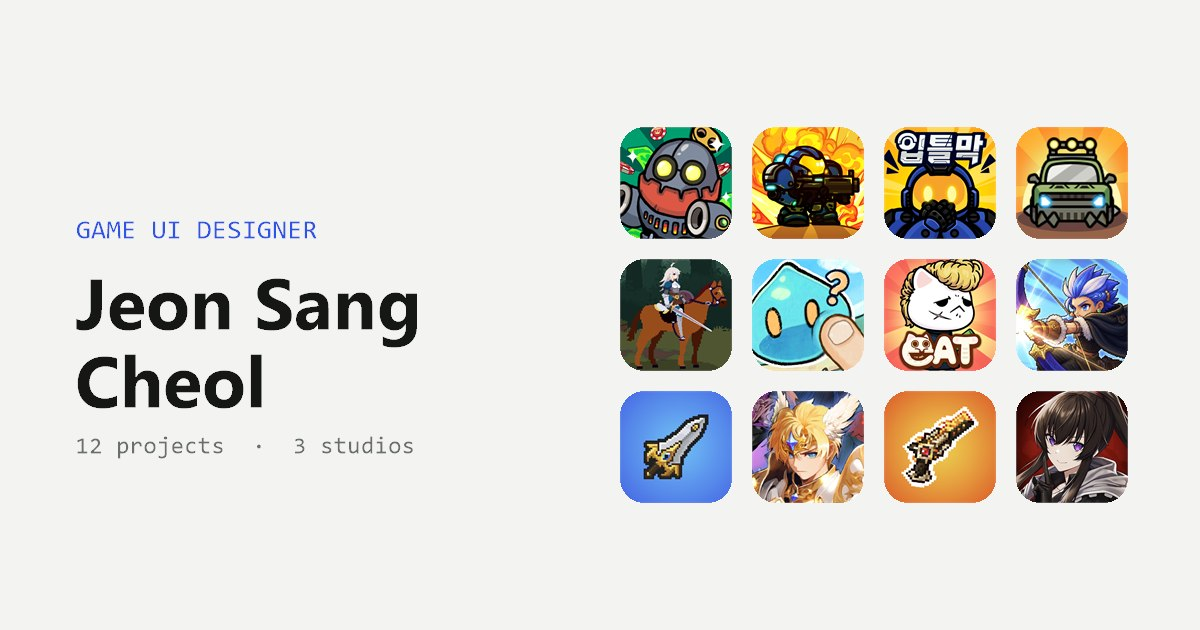
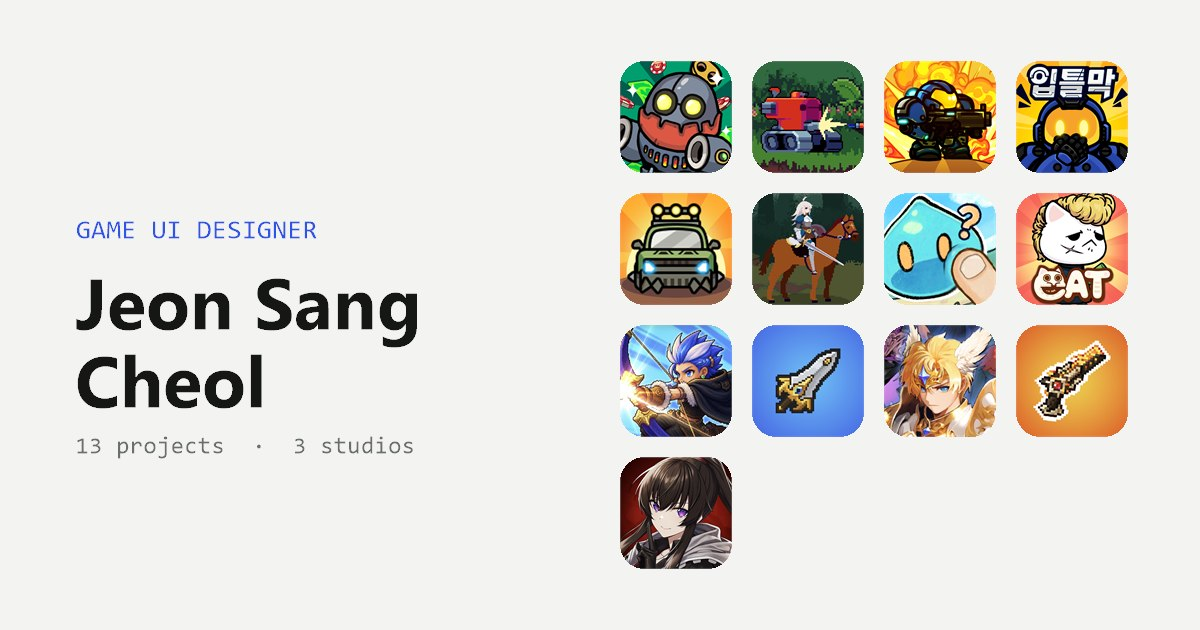
2026.11.18

Changed region(s): [[0.4933, 0.0905, 0.9558, 0.9048]]

diff --git a/index.html b/index.html
@@ -3,10 +3,10 @@
 <head>
 <meta charset="utf-8">
 <meta name="viewport" content="width=device-width, initial-scale=1, viewport-fit=cover">
-<meta name="description" content="Game UI Designer Jeon Sang Cheol · GAKE, Act Seven, Studio B Side 실무와 개인작업물을 담은 모바일 게임 12개의 UI 포트폴리오">
+<meta name="description" content="Game UI Designer Jeon Sang Cheol · GAKE, Act Seven, Studio B Side 실무와 개인작업물을 담은 모바일 게임 13개의 UI 포트폴리오">
 <meta property="og:type" content="website">
 <meta property="og:title" content="Game UI Portfolio (Jeon Sang Cheol)">
-<meta property="og:description" content="Game UI Designer Jeon Sang Cheol · GAKE, Act Seven, Studio B Side 실무와 개인작업물을 담은 모바일 게임 12개의 UI 포트폴리오">
+<meta property="og:description" content="Game UI Designer Jeon Sang Cheol · GAKE, Act Seven, Studio B Side 실무와 개인작업물을 담은 모바일 게임 13개의 UI 포트폴리오">
 <meta property="og:image" content="https://melldongame.github.io/og-image.jpg">
 <meta property="og:image:width" content="1200">
 <meta property="og:image:height" content="630">
@@ -121,7 +121,7 @@ a { color: inherit; }
 .pv-meta { display: grid; gap: 2px; padding: 4px 2px 2px; }
 .pv-meta b { font-family: var(--font-display); font-size: 15px; }
 .pv-meta span { font-size: 12px; color: var(--muted); }
-.pv-strip { display: grid; grid-template-columns: repeat(5, minmax(0, 1fr)); gap: 6px; padding: 10px; border-radius: 6px; }
+.pv-strip { display: grid; grid-template-columns: repeat(var(--n, 5), minmax(0, 56px)); justify-content: center; gap: 6px; padding: 10px; border-radius: 6px; }
 .pv-strip img { aspect-ratio: 1080 / 2400; border-radius: 4px; }
 .pv-empty { display: grid; place-items: center; aspect-ratio: 16 / 9; border-radius: 6px; background: var(--bg); color: var(--muted); font-size: 13px; }
 .pv-empty .icon { width: 72px; box-shadow: none; }
@@ -246,7 +246,7 @@ button.spine-stage:focus-visible { outline: 2px solid var(--accent); outline-off
 @media (max-width: 720px) { .spines { grid-template-columns: repeat(2, minmax(0, 1fr)); gap: 16px 12px; } }
 
 /* Hero strip of phone screens for portrait games */
-.strip { display: grid; grid-template-columns: repeat(5, minmax(0, 1fr)); gap: clamp(8px, 1.6vw, 20px); padding: clamp(16px, 3.2vw, 44px); border-radius: 6px; }
+.strip { display: grid; grid-template-columns: repeat(var(--n, 5), minmax(0, 200px)); justify-content: center; gap: clamp(8px, 1.6vw, 20px); padding: clamp(16px, 3.2vw, 44px); border-radius: 6px; }
 .strip img { display: block; width: 100%; aspect-ratio: 1080 / 2400; object-fit: cover; border-radius: clamp(6px, 1vw, 12px); box-shadow: 0 16px 32px -14px rgba(0,0,0,.6); }
 @media (max-width: 640px) { .strip { grid-template-columns: repeat(3, minmax(0, 1fr)); } .strip img:nth-child(n+4) { display: none; } }
 @media (prefers-reduced-motion: reduce) { .tile img { transition: none; } }
@@ -681,6 +681,14 @@ const projects = [
     dir: "images/mad-truck/",
     strip: ["a1", "a3", "a4", "b1", "b3"],
     sections: [
+      { title: "UI 연출", groups: [
+        { title: "카드 연출", kind: "spine", fx: true, cols: 5, stageRatio: "9 / 16", items: [
+          { name: "카드 오픈", anims: [["GIF", "fx/fx-card-open.gif"]] }
+        ] },
+        { title: "인게임 연출", cols: 5, ratio: "1080 / 2400", items: [
+          { f: "b1", name: "보스 등장" }, { f: "b2", name: "부스터" }, { f: "b3", name: "승리" }
+        ] }
+      ] },
       { title: "UI / UX", groups: [
         { title: "로비", cols: 5, ratio: "1080 / 2400", items: [
           { f: "a1", name: "스테이지 로비" }, { f: "a2", name: "튜토리얼" }, { f: "b4", name: "강화 카드" },
@@ -689,11 +697,6 @@ const projects = [
         { title: "인게임", cols: 5, ratio: "1080 / 2400", items: [
           { f: "a3", name: "전투" }, { f: "a4", name: "카드 선택" }, { f: "a5", name: "일시 정지" },
           { f: "a6", name: "VIP 제안 · 2배속" }, { f: "a7", name: "광고 보상" }, { f: "a8", name: "유닛 배치" }, { f: "a9", name: "유닛 합성" }
-        ] }
-      ] },
-      { title: "UI 연출", groups: [
-        { title: "인게임 연출", cols: 5, ratio: "1080 / 2400", items: [
-          { f: "b1", name: "보스 등장" }, { f: "b2", name: "부스터" }, { f: "b3", name: "승리" }
         ] }
       ] }
     ]
@@ -705,10 +708,14 @@ const projects = [
     summary: "UI / UX / UI 연출 / 광고 , 스토어배너",
     screens: [],
     dir: "images/block-the-gate/",
-    strip: ["a1", "a2", "b2", "c6", "d2"],
+    strip: ["a1", "fx/fx-summon.gif", "fx/fx-card-idle.gif", "fx/fx-card-open.gif", "fx/fx-produce.gif"],
     sections: [
       { title: "UI 연출", groups: [
         { title: "화면 연출", kind: "spine", fx: true, cols: 5, stageRatio: "9 / 16", items: [
+          { name: "소환", anims: [["GIF", "fx/fx-summon.gif"]] },
+          { name: "카드 대기", anims: [["GIF", "fx/fx-card-idle.gif"]] },
+          { name: "카드 오픈", anims: [["GIF", "fx/fx-card-open.gif"]] },
+          { name: "생산", anims: [["GIF", "fx/fx-produce.gif"]] },
           { name: "뽑기", anims: [["GIF", "fx/fx-gacha.gif"]] },
           { name: "카드 선택", anims: [["GIF", "fx/fx-card.gif"]] },
           { name: "미네랄 채굴", anims: [["GIF", "fx/fx-mineral.gif"]] },
@@ -809,6 +816,22 @@ const projects = [
     ]
   },
   {
+    id: "pixel-tank", title: "Pixel Tank", ko: "",
+    genre: "방치형 RPG", year: "", role: "UI 컨셉", tools: "",
+    orient: "portrait", hue: [96, 150], cover: "", icon: "images/pixel-tank/icon.jpg",
+    summary: "UI 컨셉 제작",
+    screens: [],
+    dir: "images/pixel-tank/",
+    strip: ["a1", "a2"],
+    sections: [
+      { title: "UI 컨셉", groups: [
+        { title: "화면", cols: 5, ratio: "1080 / 1920", items: [
+          { f: "a1", name: "인게임" }, { f: "a2", name: "팝업 프레임" }
+        ] }
+      ] }
+    ]
+  },
+  {
     id: "pixel-knight", title: "Pixel Knight", ko: "",
     genre: "방치형 RPG", year: "", role: "UI/UX · UI 연출", tools: "", status: "개발 중단 · 미출시",
     orient: "portrait", hue: [140, 200], cover: "", icon: "images/pixel-knight/icon.jpg",
@@ -817,6 +840,13 @@ const projects = [
     dir: "images/pixel-knight/",
     strip: ["a1", "b7", "c3", "d4", "d8"],
     sections: [
+      { title: "UI 연출", groups: [
+        { title: "상점 연출", kind: "spine", fx: true, cols: 5, stageRatio: "9 / 16", items: [
+          { name: "상점 1", anims: [["GIF", "fx/fx-shop-1.gif"]] },
+          { name: "상점 2", anims: [["GIF", "fx/fx-shop-2.gif"]] },
+          { name: "상점 3", anims: [["GIF", "fx/fx-shop-3.gif"]] }
+        ] }
+      ] },
       { title: "UI / UX", groups: [
         { title: "메인 · 성장", cols: 5, ratio: "1080 / 1920", items: [
           { f: "a1", name: "메인" }, { f: "a2", name: "레벨업" }, { f: "a7", name: "메뉴" },
@@ -849,7 +879,7 @@ const projects = [
 
 // Companies, newest first. Projects show in the order listed in ids.
 const companies = [
-  { name: "개인작업물", period: "", ids: ["poker-random-arena"] },
+  { name: "개인작업물", period: "", ids: ["poker-random-arena", "pixel-tank"] },
   { name: "GAKE", period: "2024 – 2026", ids: ["marine-too-strong", "block-the-gate", "mad-truck", "pixel-knight", "surprise-defense", "cat-fortress"] },
   { name: "Act Seven", period: "2023 – 2024", ids: ["gotcha", "dragon-slayer", "eternal-heroes", "sonyeo-chongsa"] },
   { name: "Studio B Side", period: "2020 – 2022", ids: ["counter-side"] }
@@ -882,7 +912,9 @@ function shot(p, s, { orient = s.orient || p.orient, src, crop } = {}) {
     <span class="label">${esc(s.name)}</span></div></div>`;
 }
 
-const stripBg = p => `background: linear-gradient(140deg, hsl(${p.hue[0]} 40% 16%), hsl(${p.hue[1]} 45% 32%));`;
+// Strip entries are screenshot ids ("a1") or animation paths ("fx/clip.gif")
+const stripSrc = (p, f) => p.dir + (f.includes(".") ? f : f + "-t.jpg");
+const stripBg = p =>`background: linear-gradient(140deg, hsl(${p.hue[0]} 40% 16%), hsl(${p.hue[1]} 45% 32%)); --n: ${p.strip.length};`;
 
 function icon(p) {
   if (p.icon) return `<div class="icon"><img src="${esc(p.icon)}" alt="${esc(p.title)} 앱 아이콘"></div>`;
@@ -934,7 +966,7 @@ function showPreview(p, anchor) {
     const co = companyOf(p);
     const picks = p.strip ? [] : (p.sections || []).map(s => s.groups[0].items[0]).slice(0, 3);
     pv.innerHTML = (p.strip
-      ? `<div class="pv-strip" style="${stripBg(p)}">${p.strip.map(f => `<img src="${esc(p.dir + f + "-t.jpg")}" alt="">`).join("")}</div>`
+      ? `<div class="pv-strip" style="${stripBg(p)}">${p.strip.map(f => `<img src="${esc(stripSrc(p, f))}" alt="">`).join("")}</div>`
       : p.cover
       ? `<div class="pv-cover"><img src="${esc(p.cover)}" alt=""></div>`
       : `<div class="pv-empty">${icon(p)}<span>상세 화면 준비 중</span></div>`) +
@@ -974,7 +1006,7 @@ function renderDetail(p) {
       </div>
     </section>
     ${p.strip
-      ? `<div class="strip" style="${stripBg(p)}">${p.strip.map(f => `<img src="${esc(p.dir + f + "-t.jpg")}" alt="${esc(p.title)} 화면">`).join("")}</div>`
+      ? `<div class="strip" style="${stripBg(p)}">${p.strip.map(f => `<img src="${esc(stripSrc(p, f))}" alt="${esc(p.title)} 화면">`).join("")}</div>`
       : shot(p, { kind: "title", name: "타이틀" }, { orient: "landscape", src: p.cover, crop: true })}
     <dl class="meta">
       ${[["Genre", p.genre], ["Role", p.role], ["Year", p.year], ["Tools", p.tools], ["Status", p.status]].filter(([, v]) => v)
